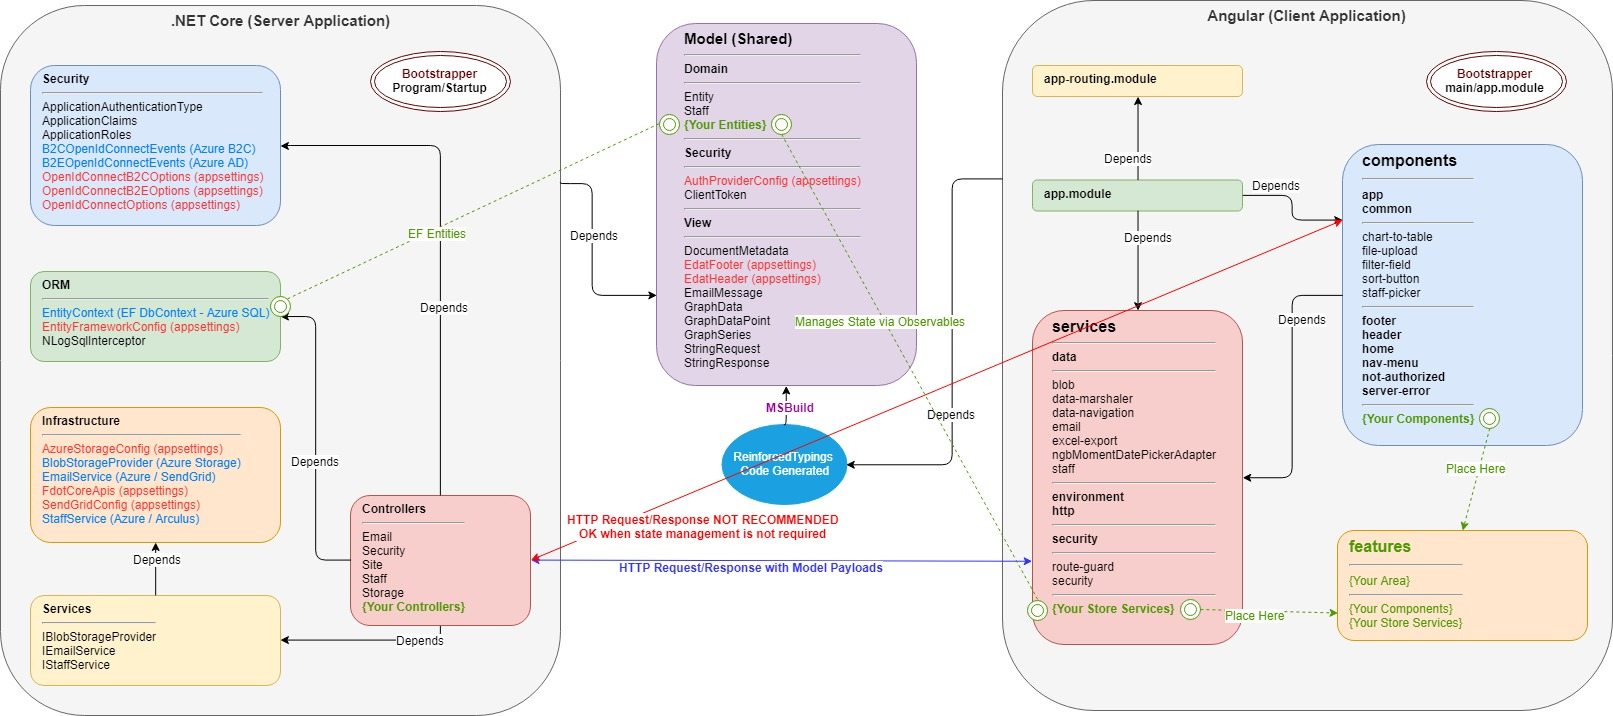
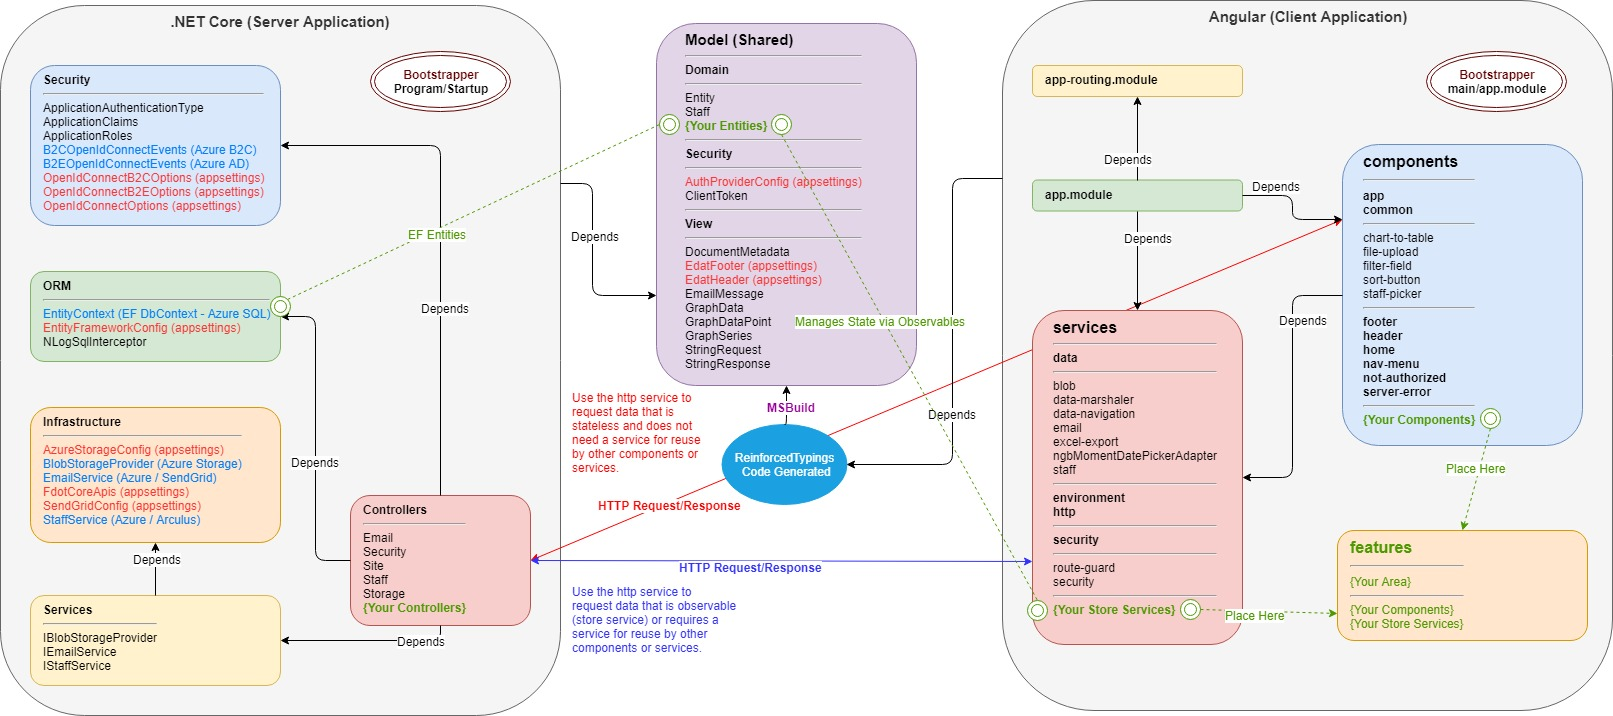
readme update

diff --git a/README.md b/README.md
@@ -115,7 +115,7 @@ VS Code - In the Debug Menu (Ctrl + Shift + D), select `ASP.Net Core & Browser` 
 
 ### General Overview
 
-Think of development using the Template Application Architecture as creating two separate applications, a server application and a client application. The only aspect or information that is shared between the two is the model, and the only communication between the two is with client services (and sometimes controllers) making requests to server API controllers. The following is a detailed breakdown of the various tiers and components, and the responsibilities they have in the architecture.
+Think of development using the Template Application Architecture as creating two separate applications, a server application and a client application. The only aspect or information that is shared between the two is the model, and the only communication between the two is with client services or controllers making requests to server API controllers. The following is a detailed breakdown of the various tiers and components, and the responsibilities they have in the architecture.
 
 ### Model
 
@@ -257,7 +257,12 @@ The _environment_ service provides a means for the Angular router to compose URL
 
 ##### http
 
-The _http_ service is a wrapper around Angular's http service that has been extended to handle _ModelState_ error and unauthorized responses. This is the http service your services and stores should use. This service does not maintain any state.
+The _http_ service is a wrapper around Angular's http service that has been extended to handle _ModelState_ error and unauthorized responses. This is the http service your components, services and stores should use. This service does not maintain any state.
+
+**A note about the http service:** The http service should be injected into a component or service for use in calling the server application's APIs. There are two rules that should be followed to determine if the http service can be used directly in a component, or whether a service should be created to encapsulate the HTTP calls.
+
+1. If the data is static to the client (data that doesn't need to be observed for changes on the client), using the http service in a component is allowed. If the data needs to be observed for changes on the client, a store service should be used to encapsulate the HTTP calls.
+2. If the data is static to the client, but the same HTTP call is needed by multiple components (via service injection), a service should be used to encapsulate the HTTP calls.
 
 ##### security
 
